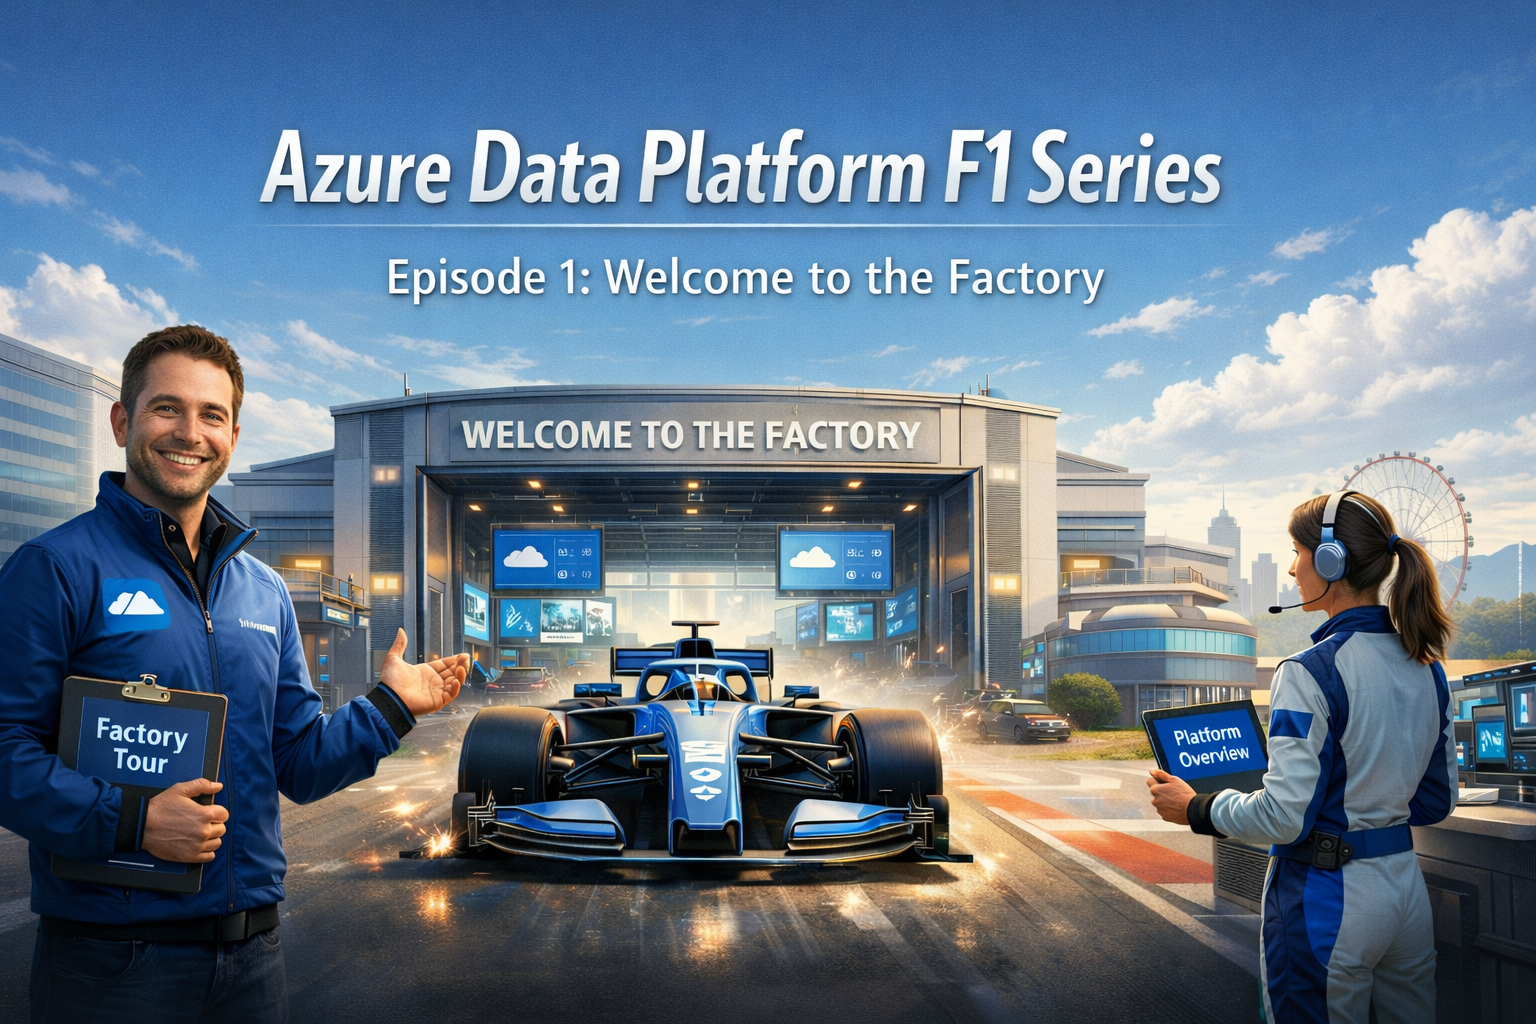
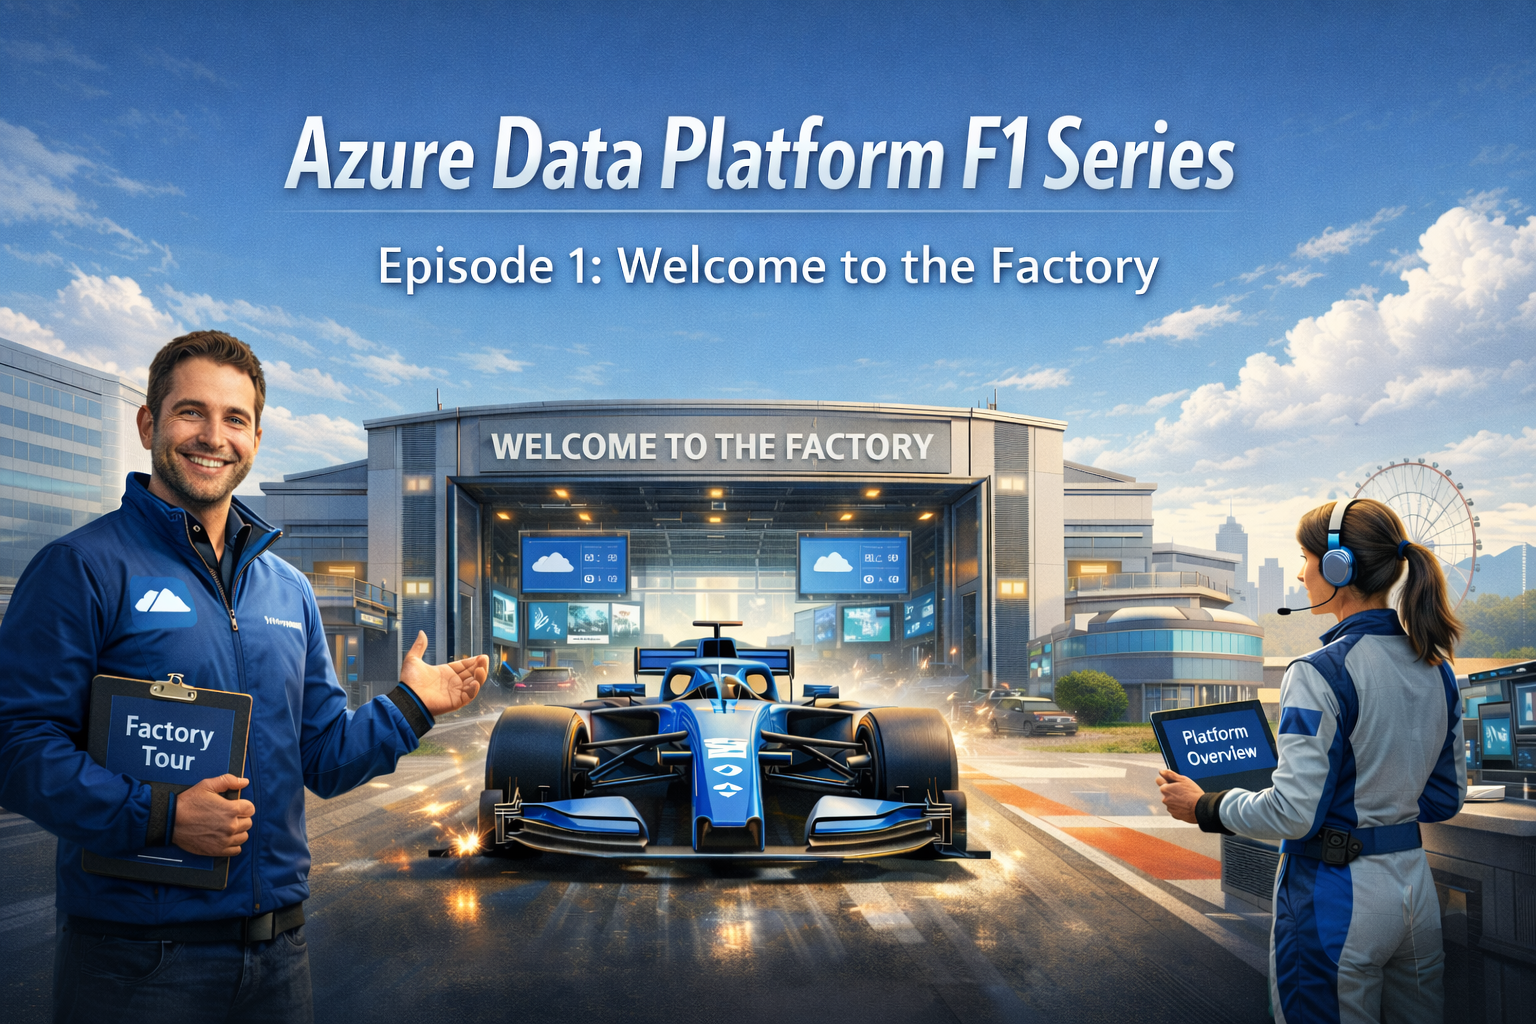
Bring title lower still for visibility

diff --git a/scripts/prompt-cli.py b/scripts/prompt-cli.py
@@ -31,7 +31,7 @@ DEFAULT_CONFIG = {
     "image_title_safe_left_right_percent": 12,
     # DEV.to cover images are frequently cropped (especially on top) depending
     # on layout and viewport. Use conservative safe areas for any typography.
-    "image_title_safe_top_percent": 24,
+    "image_title_safe_top_percent": 32,
     "image_title_safe_bottom_percent": 14,
     "image_style": (
         "cinematic digital illustration, highly detailed, "
@@ -241,8 +241,8 @@ def build_title_safety_block(series_name, episode_number, title, config):
         f"- Keep title typography at least {bottom}% away from the bottom "
         "edge.\n"
         "- Do NOT place any text in the top safe-margin area.\n"
-        "- Place the title block lower than you normally would: upper-middle, "
-        "not near the top border.\n"
+        "- Place the entire title block clearly below the top crop zone "
+        "(upper-middle; noticeably lower than typical header designs).\n"
         "- Keep the subtitle clearly below the main title with generous "
         "spacing.\n"
         "- Use slightly smaller typography rather than oversized typography "
